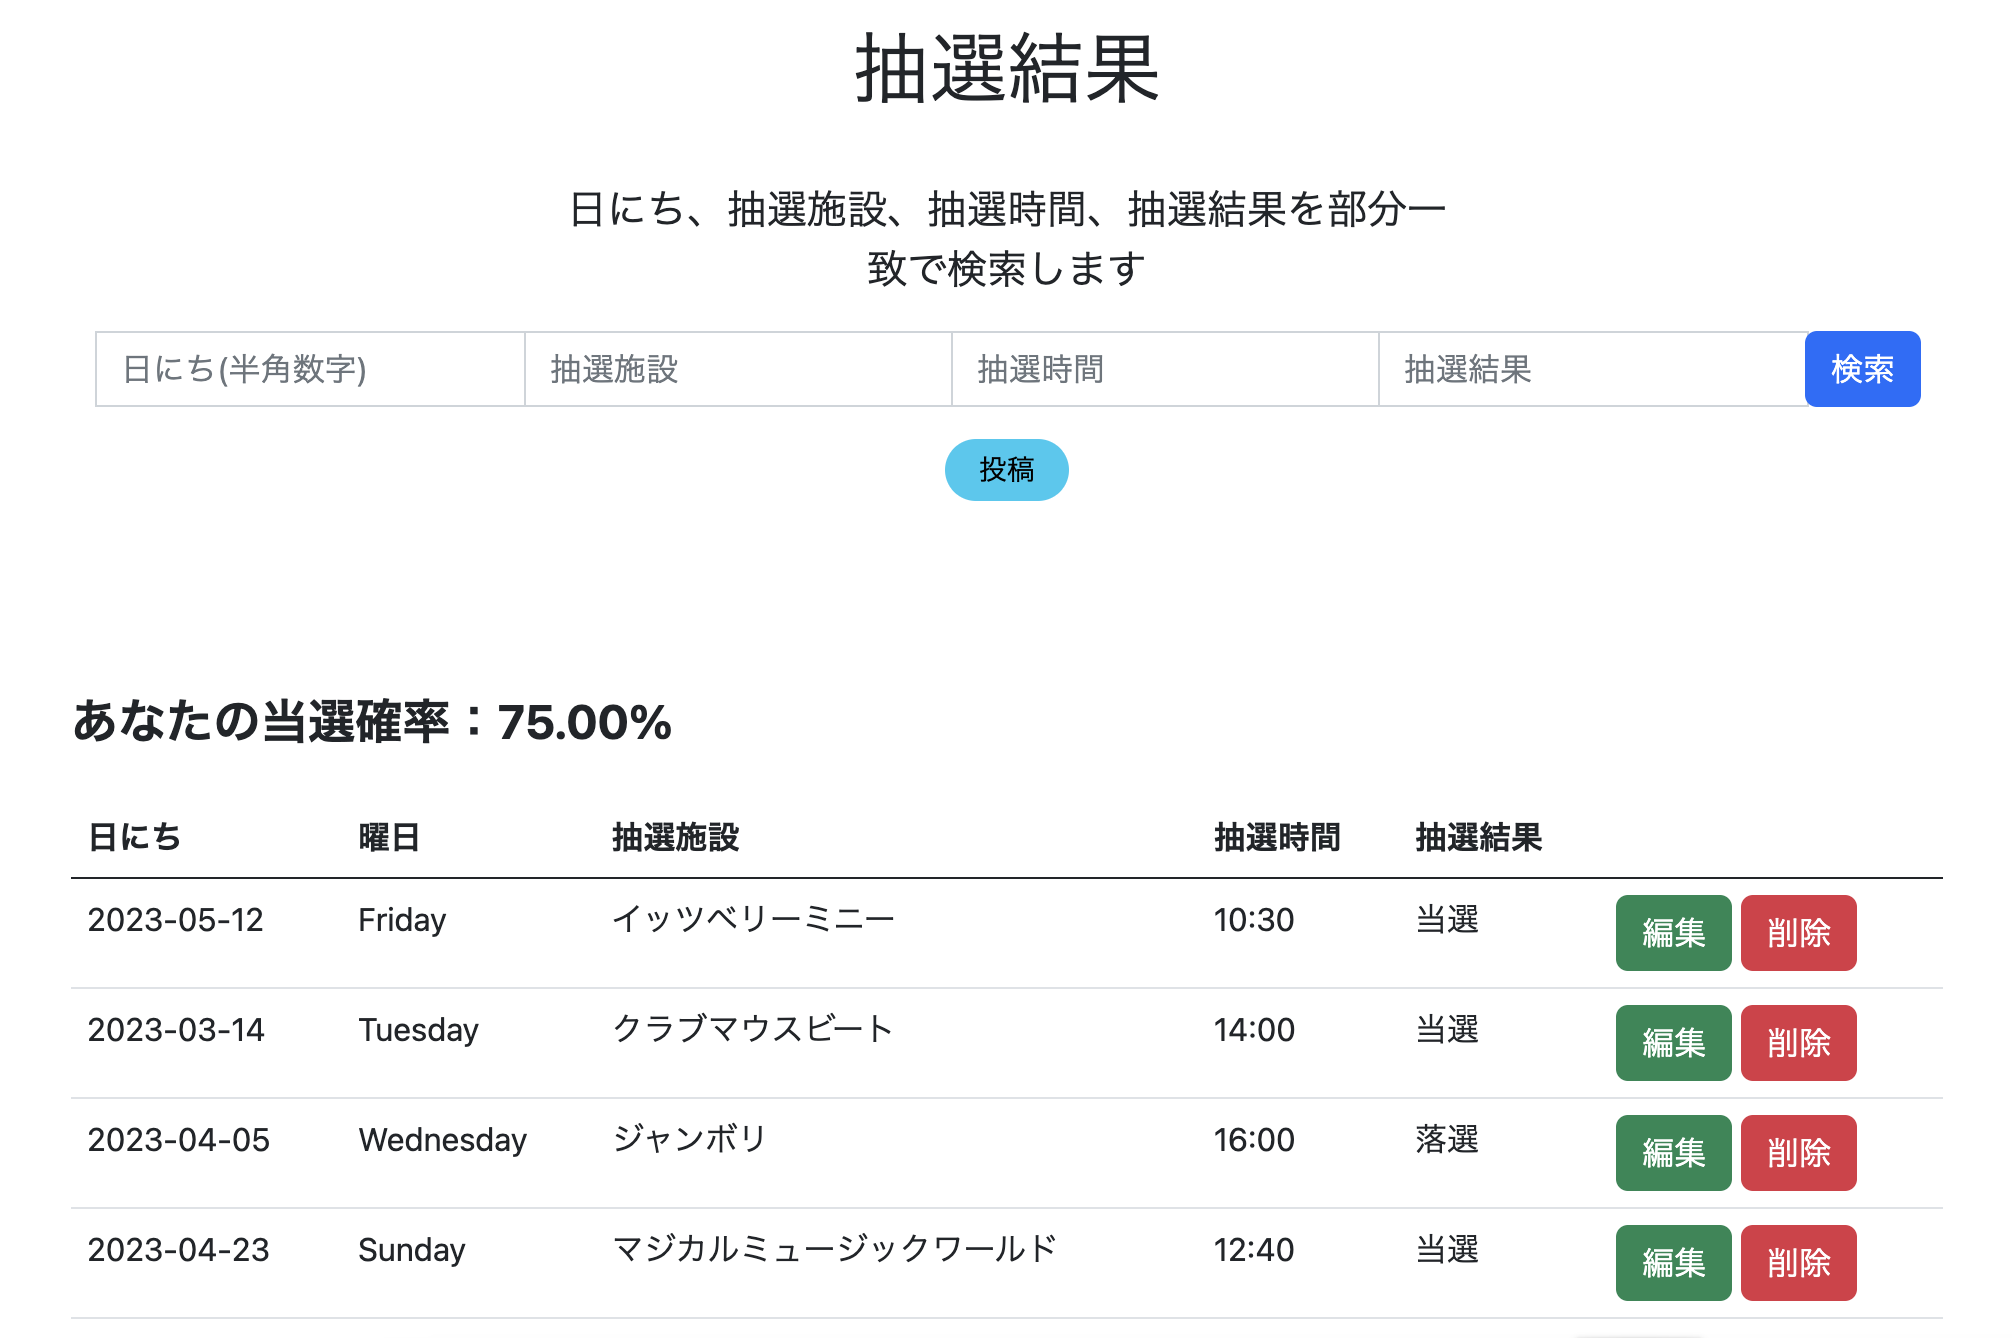
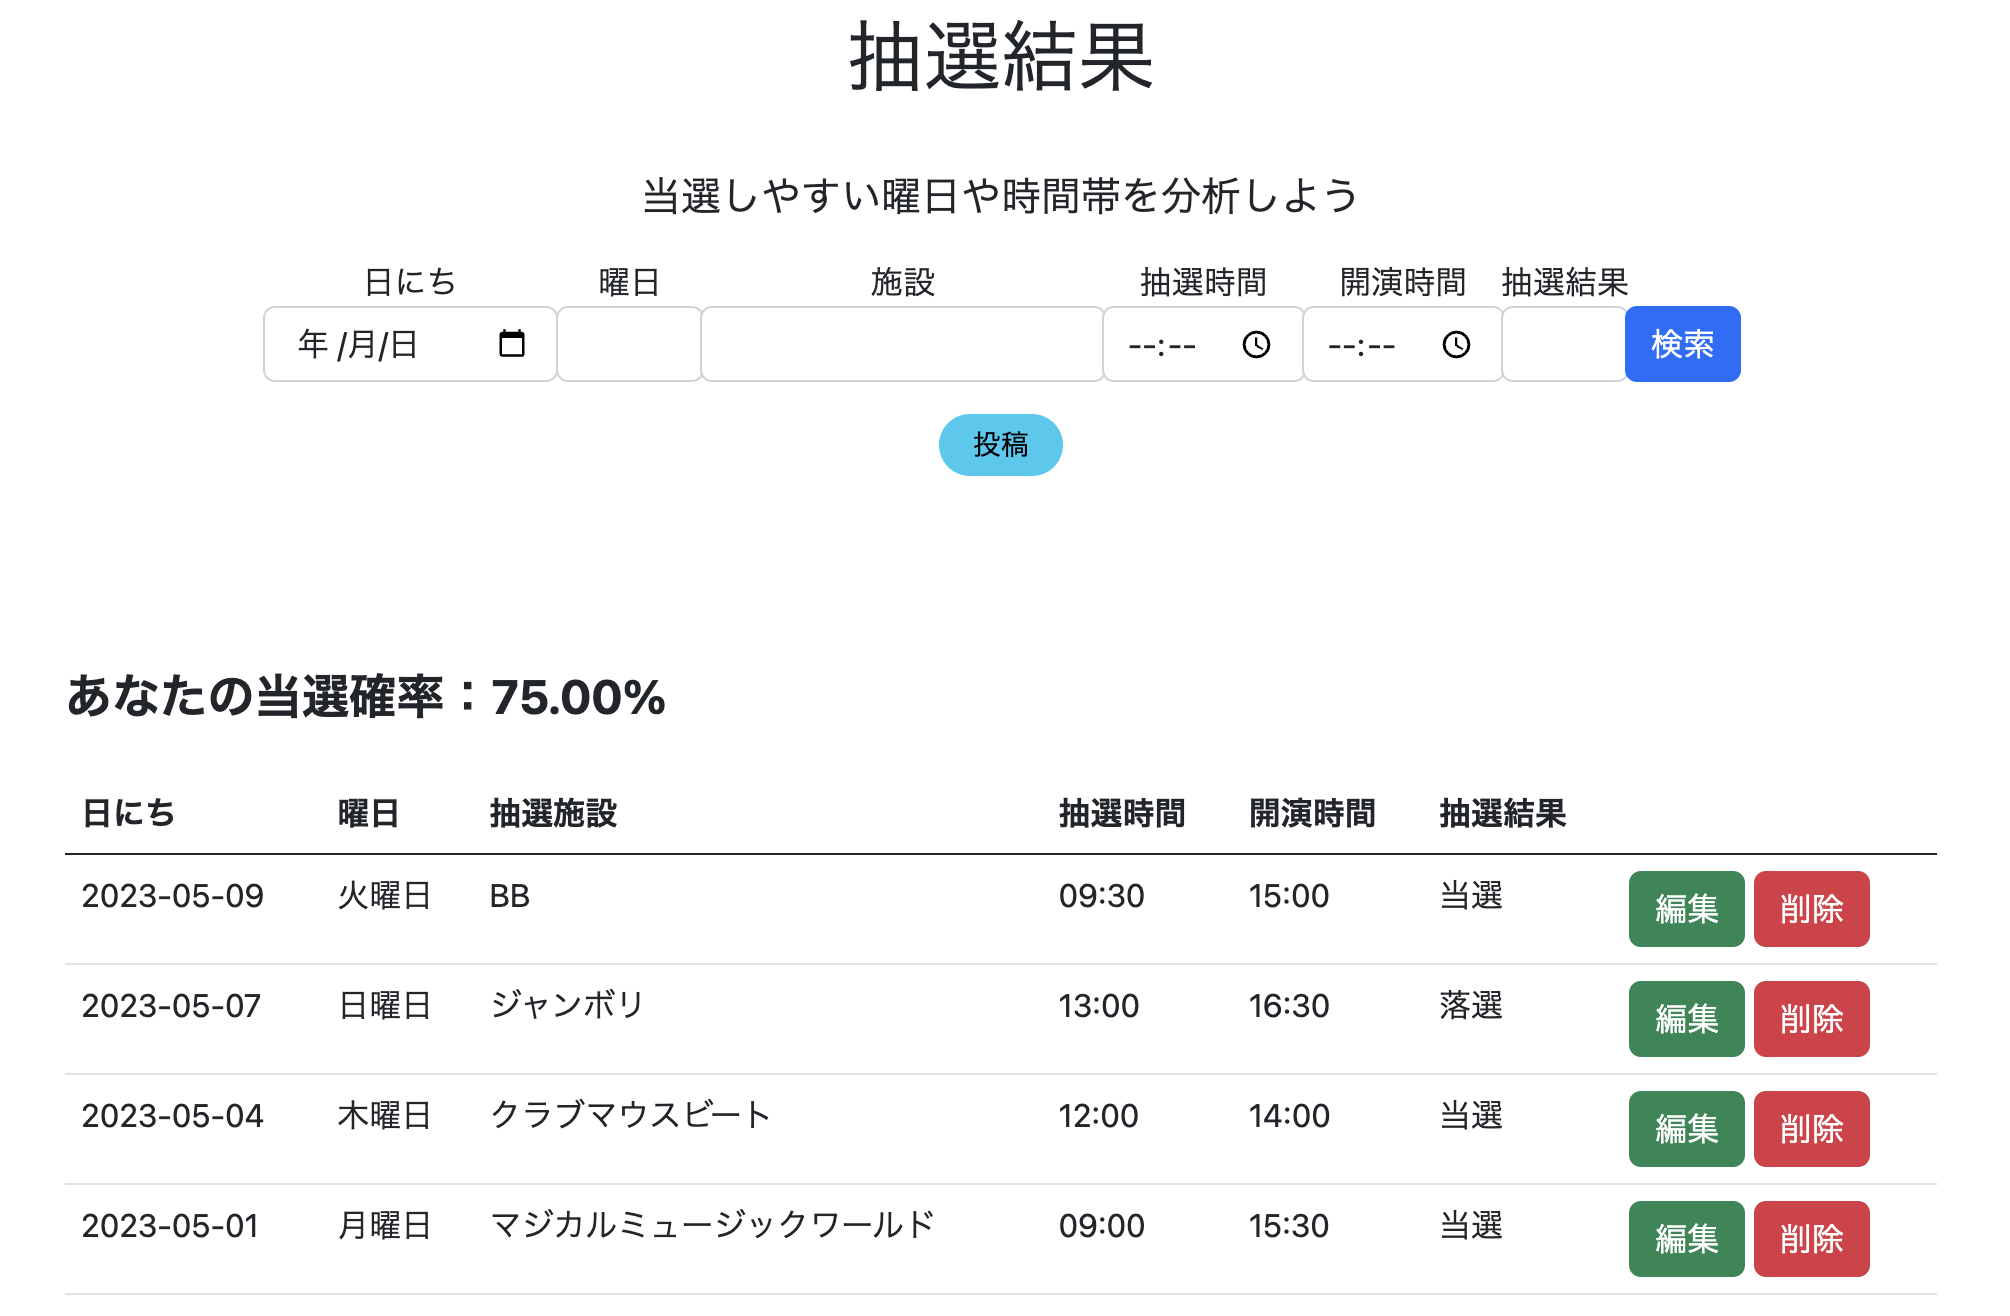
抽選機能のカラム追加

diff --git a/db/schema.rb b/db/schema.rb
@@ -10,7 +10,7 @@
 #
 # It's strongly recommended that you check this file into your version control system.
 
-ActiveRecord::Schema.define(version: 2023_05_12_121730) do
+ActiveRecord::Schema.define(version: 2023_05_14_121818) do
 
   # These are extensions that must be enabled in order to support this database
   enable_extension "plpgsql"
@@ -41,6 +41,8 @@ ActiveRecord::Schema.define(version: 2023_05_12_121730) do
     t.integer "user_id", null: false
     t.datetime "created_at", precision: 6, null: false
     t.datetime "updated_at", precision: 6, null: false
+    t.string "day_of_week"
+    t.time "start_time"
   end
 
   create_table "photos", force: :cascade do |t|

diff --git a/app/controllers/lottelies_controller.rb b/app/controllers/lottelies_controller.rb
@@ -43,7 +43,7 @@ class LotteliesController < ApplicationController
   private
 
   def lottely_params
-    params.require(:lottely).permit(:day, :facility, :time, :result)
+    params.require(:lottely).permit(:day, :day_of_week, :facility, :time, :start_time, :result)
   end
 
   def set_lottely

diff --git a/db/migrate/20230514121818_add_column_to_lottelies.rb b/db/migrate/20230514121818_add_column_to_lottelies.rb
@@ -1,0 +1,6 @@
+class AddColumnToLottelies < ActiveRecord::Migration[6.1]
+  def change
+    add_column :lottelies, :day_of_week, :string
+    add_column :lottelies, :start_time, :time
+  end
+end
